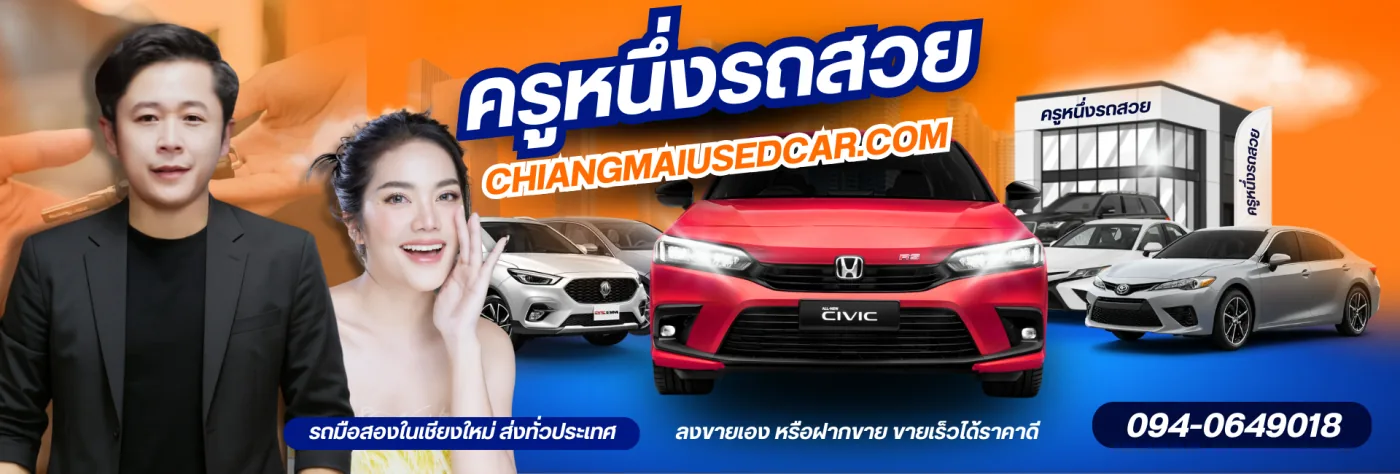
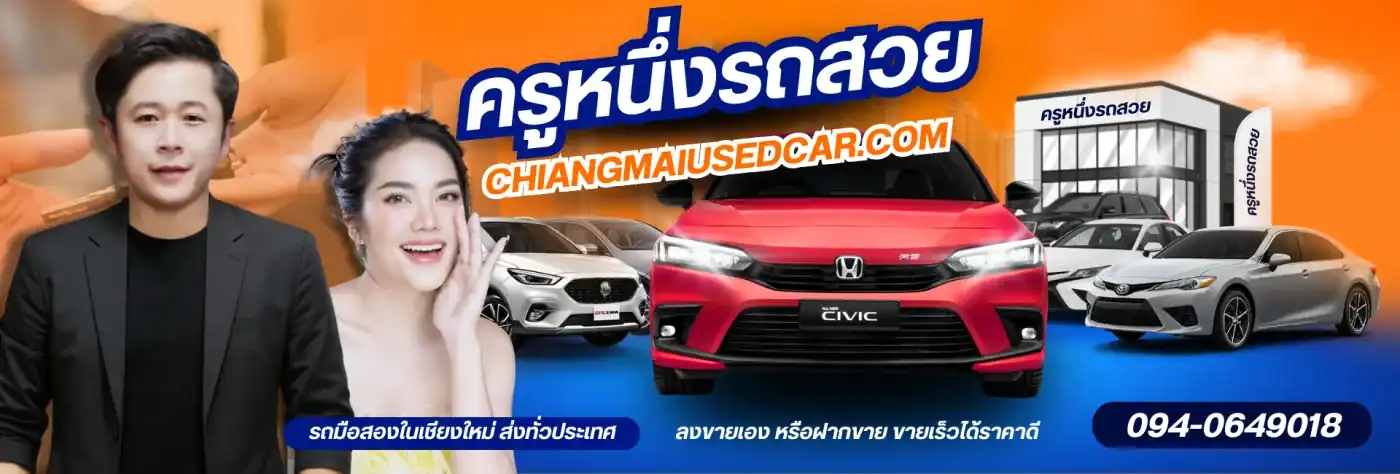
perf(lcp): compress hero images, disable HomeSearch SSR to reduce hydration blocking, remove redundant image preload

diff --git a/pages/index.jsx b/pages/index.jsx
@@ -48,6 +48,7 @@ const CarCard = dynamic(() => import('../components/CarCard'), {
   loading: () => <div className="h-[300px] w-full bg-gray-100 animate-pulse rounded-lg"></div>,
 });
 const HomeSearchSection = dynamic(() => import('../components/HomeSearchSection'), {
+  ssr: false,
   loading: () => <div className="h-[200px] w-full bg-gray-100 animate-pulse rounded-lg"></div>,
 });
 const Breadcrumb = dynamic(() => import('../components/Breadcrumb'), {
@@ -306,16 +307,6 @@ export default function Home({ cars, brandCounts, homeOgImage, homeItemListJsonL
 
   return (
     <div>
-      <Head>
-        <link
-          rel="preload"
-          as="image"
-          href="/herobanner/newherobanner-828w.webp"
-          imageSrcSet="/herobanner/newherobanner-414w.webp 414w, /herobanner/newherobanner-640w.webp 640w, /herobanner/newherobanner-828w.webp 828w, /herobanner/newherobanner-1024w.webp 1024w, /herobanner/newherobanner-1400w.webp 1400w"
-          imageSizes="(max-width: 414px) 414px, (max-width: 1400px) 100vw, 1400px"
-          fetchPriority="high"
-        />
-      </Head>
       <SEO
         title={seoHome.title}
         description={seoHome.description}
